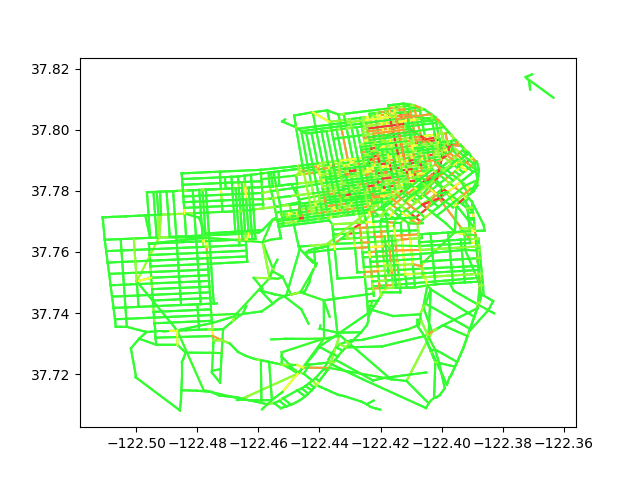
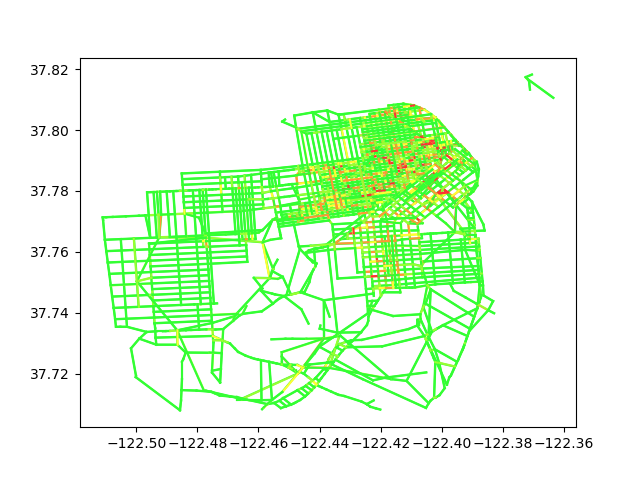
update DataLoader.py
Added new methods: delete and add roads;
Updated the draw roads with weights method and now the graph can show two direction stress.

diff --git a/model/DataLoader.py b/model/DataLoader.py
@@ -5,6 +5,31 @@ import util
 import numpy as np
 import math
 
+def rightShift(pos1, pos2) -> tuple:
+    """
+    This function will compute the right-shift direction unit vector for the given
+    vector in map,
+    the vector in map is represented as pos1 --> pos2.
+
+    e.g.
+    (0,0) --> (1,0)
+    the right-shift direction unit vector is
+    (0,-1)
+
+    (2,1) --> (3,2)
+    the right-shift direction unit vector is
+    (0.707, 0.707)
+    """
+    # calculate and normalize the given vector first
+    vector=[pos2[0]-pos1[0], pos2[1]-pos1[1]]
+    vector=[i/math.sqrt(vector[0]**2+vector[1]**2) for i in vector]
+    x=vector[0]
+    y=vector[1]
+
+    # turn the direction 90 degree and return
+    return (y, -x)
+
+
 class lightNode():
     def __init__(self, latitude, longitude, cnn, streets=[], successors=set()):
         self.latitude=latitude
@@ -50,6 +75,14 @@ class RoadMap():
     * getSuccessors(node) : return all the successors that can go from this light. Stored in array
 
     * drawRoadsWithStress(stress) : draw all the roads with a given traffic jam stress dictionary.
+
+    * deleteRoadbyNode(node1, node2) &
+      deleteRoadbyCNN(cnn1, cnn2) : delete a road connected by node 1 and node 2, reference by cnn
+      or node.
+
+    * addRoadbyNode(node1, node2, roadName) &
+      addRoadbyCNN(cnn1, cnn2, roadName) : add a road connected by node 1 and node 2, reference by
+      cnn or node, and this road segment belongs to road "roadName".
     """
     def __init__(self,df,lenTol=float('inf')):
         self.df=df.loc[:,("STREET1","STREET2","STREET3","shape","CNN")]
@@ -58,6 +91,7 @@ class RoadMap():
         self._reconstructLights()
         self._reconstructNodes()
         self._reconstructRoads()
+        self.scale=0.00005
 
     def _reconstructLights(self):
         lightLocation=self.df["shape"]
@@ -210,8 +244,34 @@ class RoadMap():
                        (255/256,153/256,51/256), (51/256,255/256,51/256), (255/256,51/256,51/256),\
                         (0,0,0)]
         for nodes, rd in self.rdSegment.items():
-            plt.plot([i.longitude for i in nodes],[i.latitude for i in nodes], color=colorGradient[stress[nodes]])
-        pass
+            n1, n2 = nodes
+            l1, l2 = (n1.longitude, n1.latitude), (n2.longitude, n2.latitude)
+            if l1==l2:
+                continue
+            direction=[i*self.scale for i in rightShift(l1,l2)]
+            plt.plot([i.longitude+direction[0] for i in nodes],[i.latitude+direction[1] for i in nodes], color=colorGradient[stress[nodes]])
+
+    def deleteRoadbyNode(self, node1:lightNode, node2:lightNode):
+        """
+        Delete a specific road connected node 1 and node 2
+        """
+        self.rdSegment[(node1, node2)]=None
+        self.rdSegment[(node2, node1)]=None
+        del(node1.successors, node2)    # need to verify the usage
+        del(node2.successors, node1)
+
+    def deleteRoadbyCNN(self, cnn1, cnn2):
+        self.deleteRoadbyNode(self.findNode(cnn1), self.findNode(cnn2))
+
+    def addRoadbyNode(self, node1:lightNode, node2:lightNode, roadName:str):
+        self.rdSegment[(node1, node2)]=roadName
+        self.rdSegment[(node2, node1)]=roadName
+        node1.successors.add(node2)
+        node2.successors.add(node1)
+
+    def addRoadbyCNN(self, cnn1, cnn2, roadName:str):
+        self.addRoadbyNode(self.findNode(cnn1), self.findNode(cnn2), roadName)
+
 
 if __name__ == '__main__':
     """
@@ -219,6 +279,9 @@ if __name__ == '__main__':
     """
     df=pd.read_csv("Traffic_Signals.csv")
     roads=RoadMap(df, 0.03)
+
+
+
     f = plt.figure()
     f.set_figwidth(10)
     f.set_figheight(6)

diff --git a/model/Simulation.py b/model/Simulation.py
@@ -248,11 +248,11 @@ if __name__ == '__main__':
     if not os.path.exists('./'+folder_name):
         os.mkdir(('./'+folder_name))
 
-        simulation.simulation()
-        plt.figure()
-        simulation.drawTraffic()
-        plt.savefig(folder_name + "//Figure1.png")
-        plt.show()
+    simulation.simulation()
+    plt.figure()
+    simulation.drawTraffic()
+    plt.savefig(folder_name + "//Figure1.png")
+    plt.show()
 
     """If you want to try policy modification, use codes below"""
     # for i in range(10):
